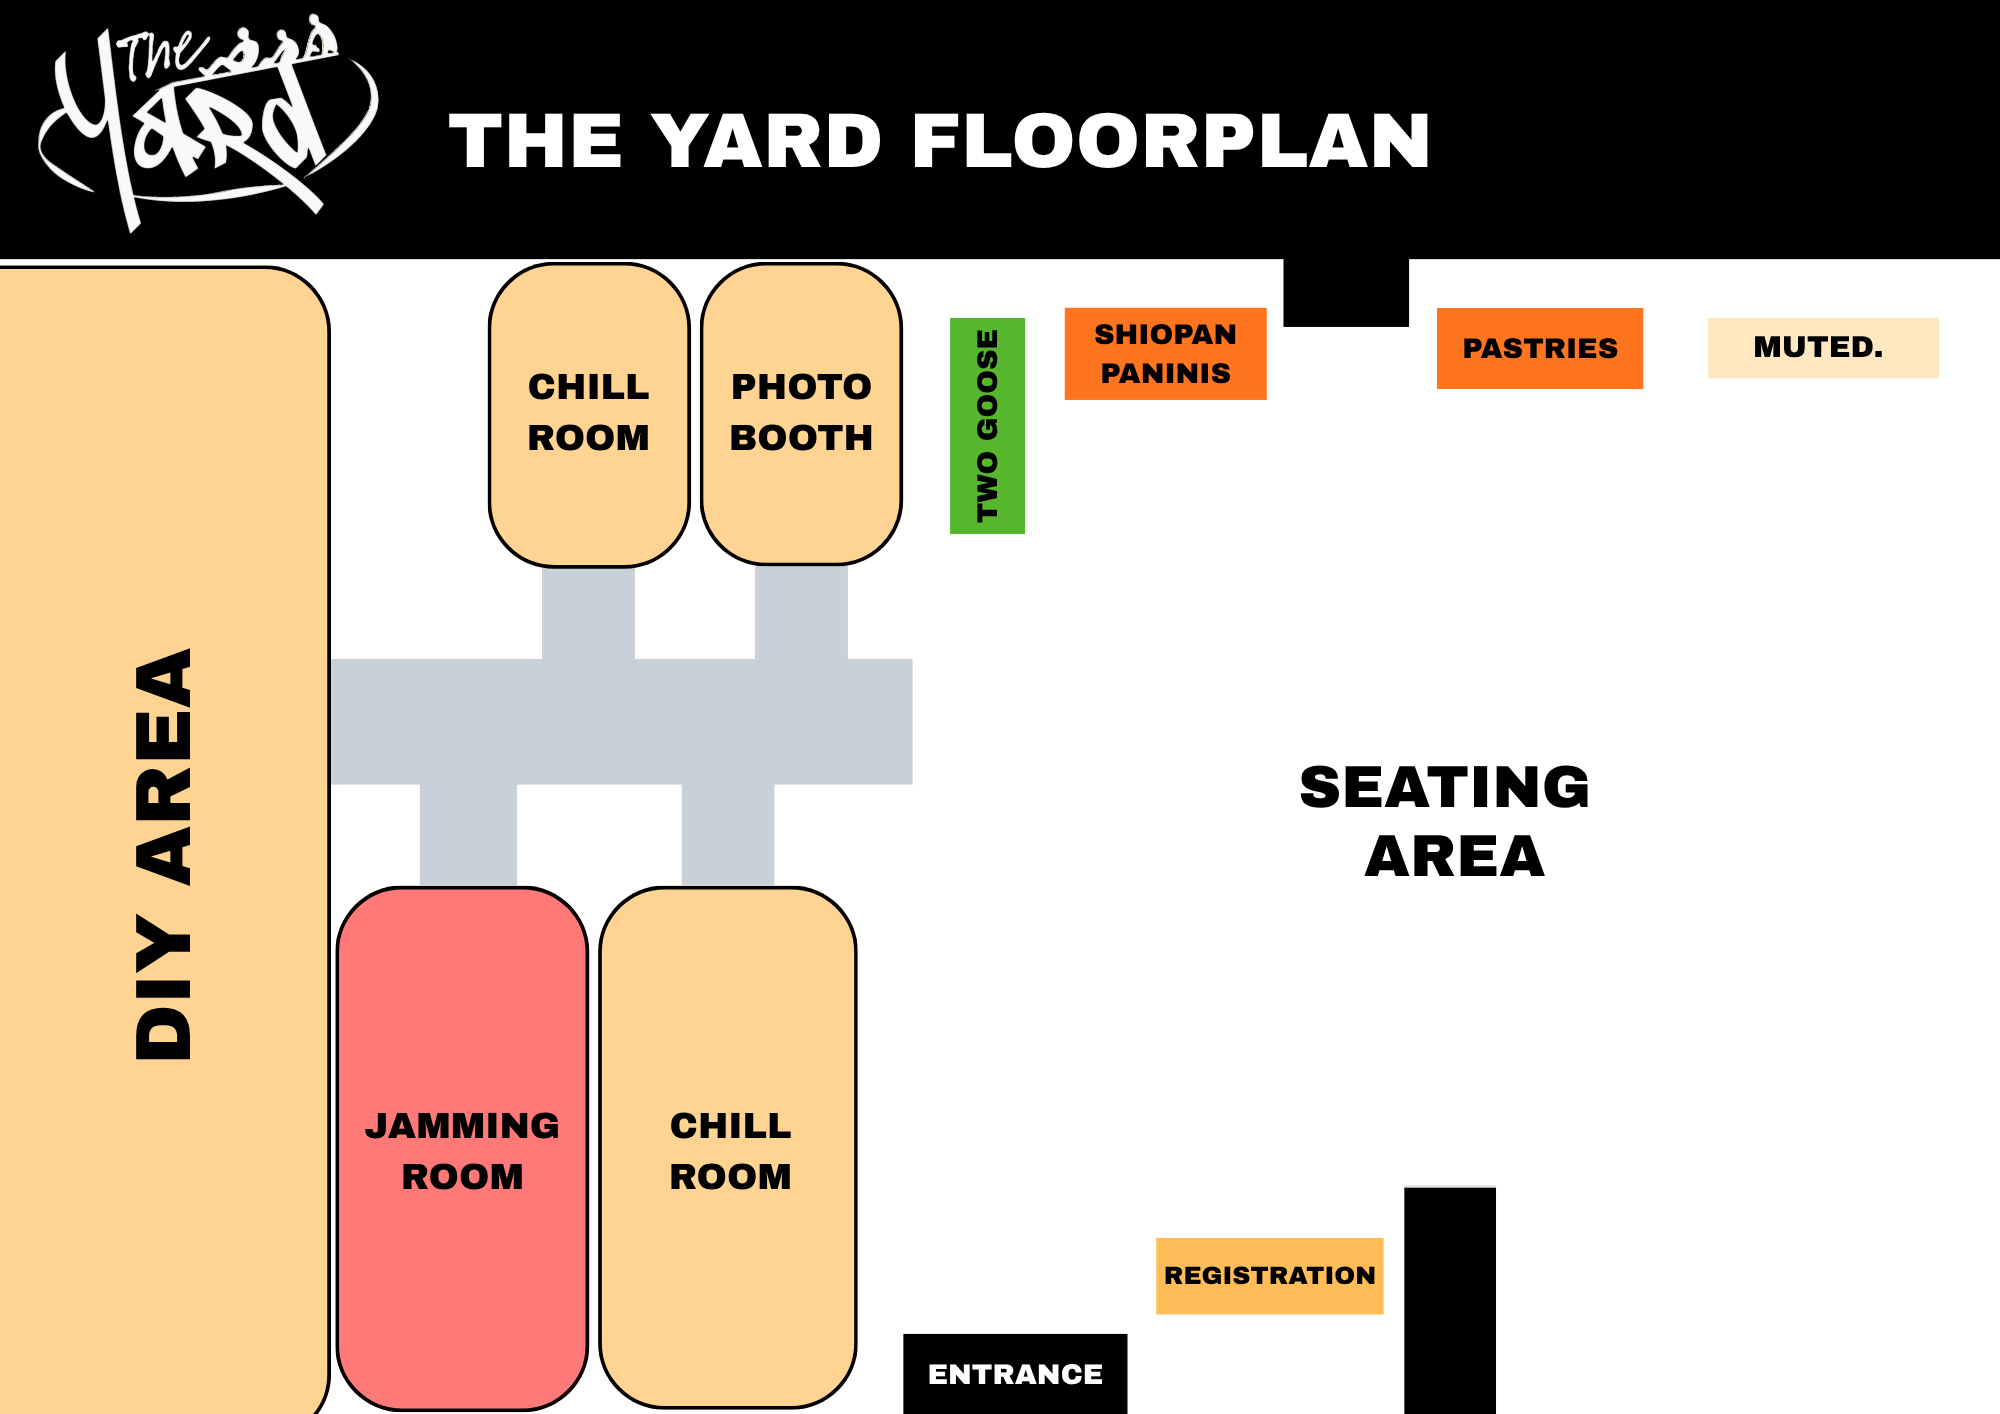
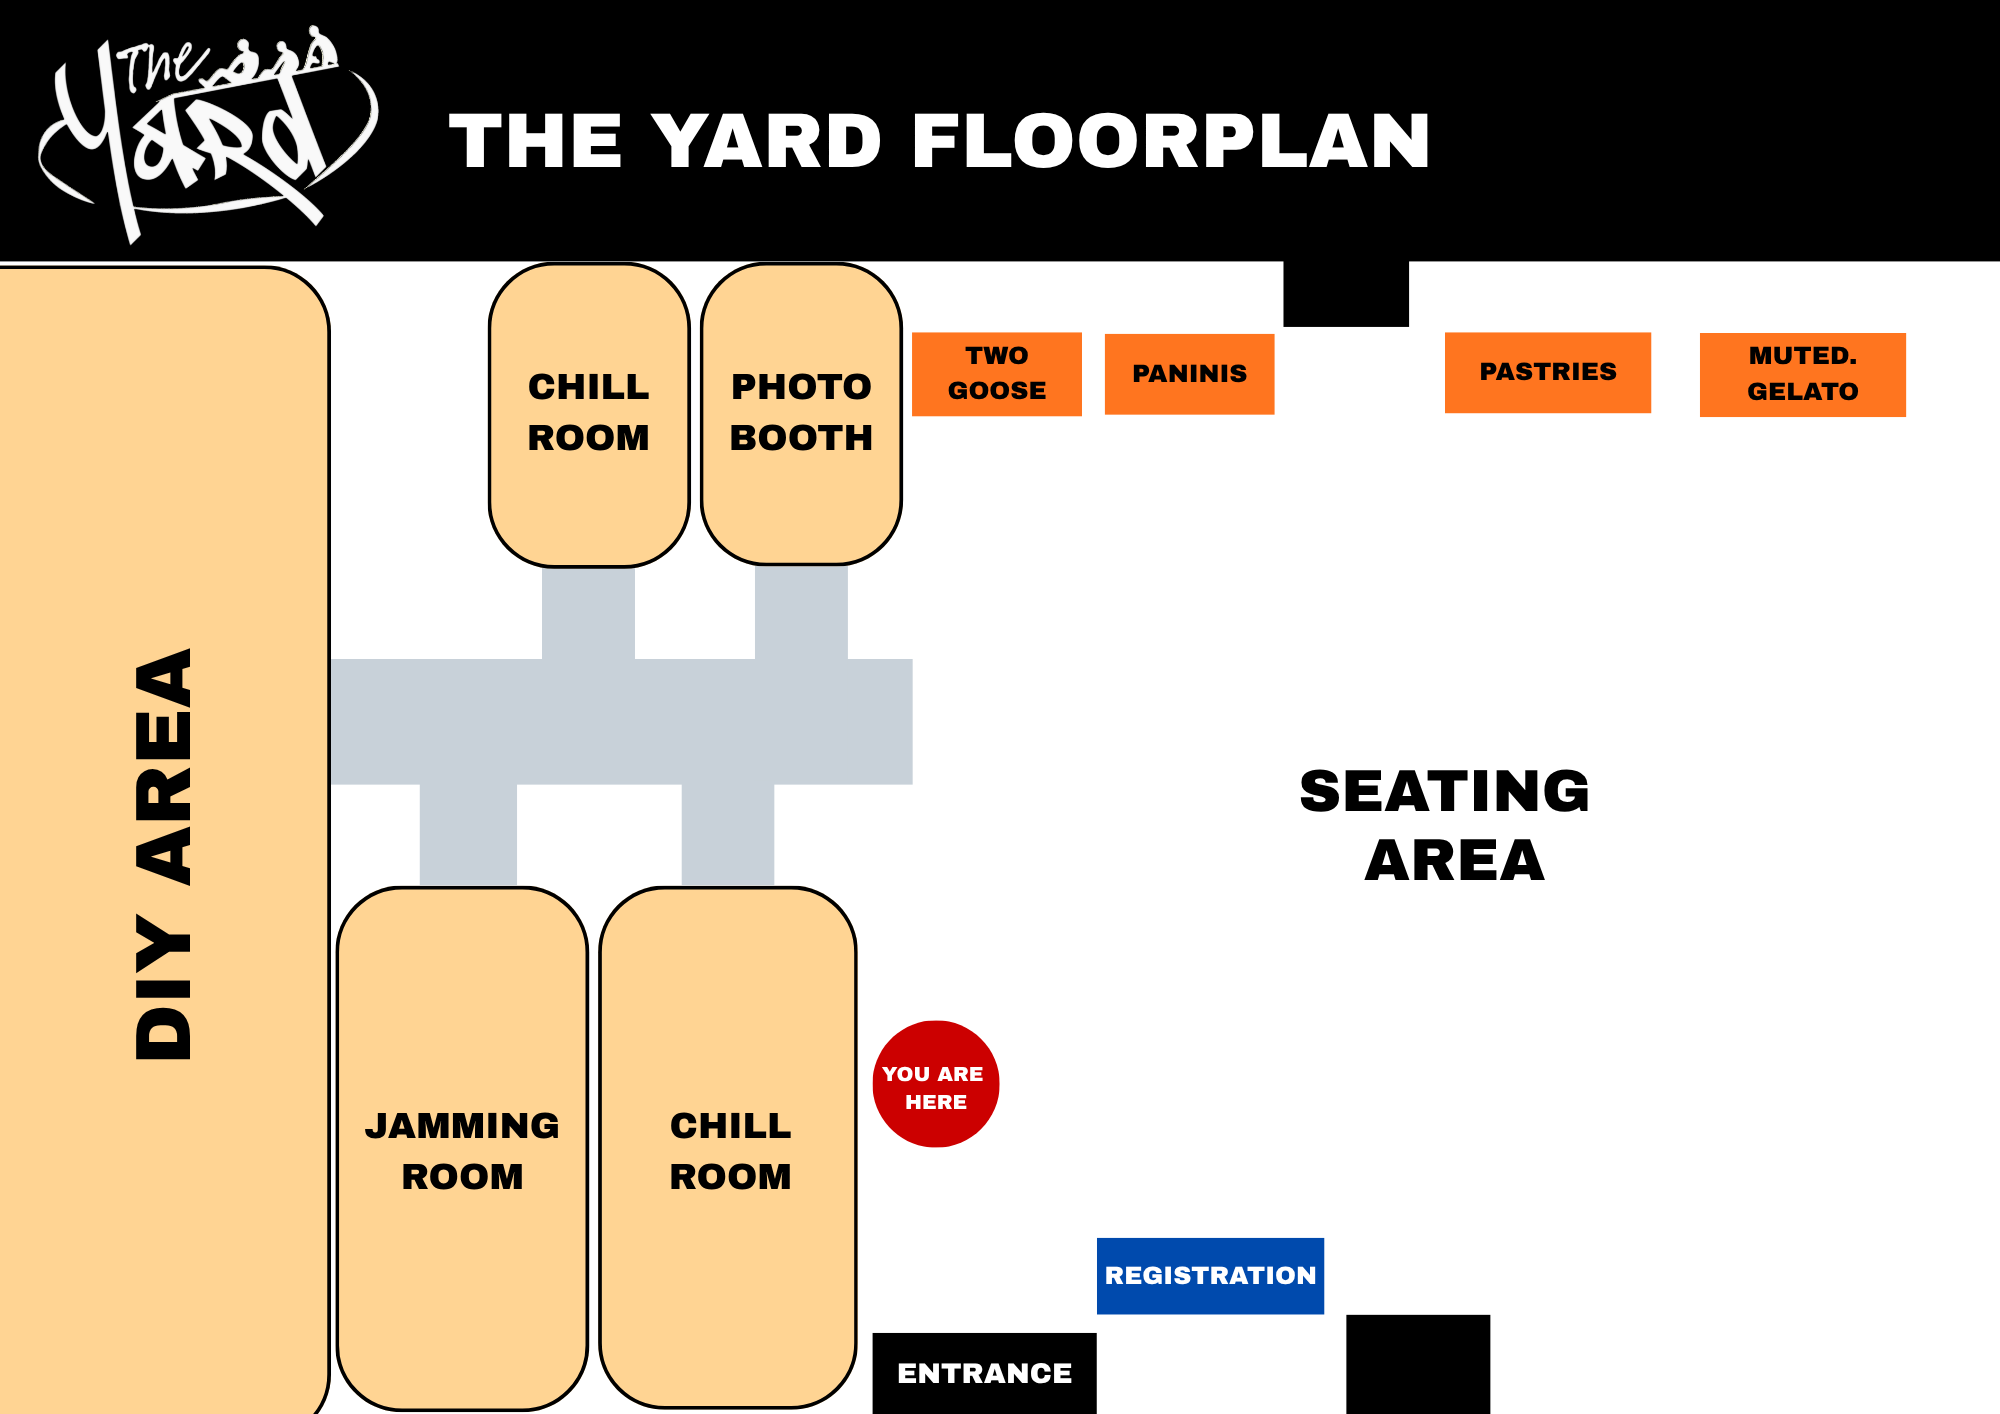
feat: the new floorplan, pinch only, and the way to the escape room
The plan is the organiser's new one, same shape as the old so nothing about
the frame or the clamping changes, and the alt text describes what is
actually on it now.

Double-tap to zoom is gone. It did what pinch already does, and on a phone it
goes off by accident: two quick taps while you are working out where you are,
and the plan jumps to 2.6x somewhere you were not looking. Pinch, drag and
the trackpad wheel stay. The lastTap and moved bookkeeping that only
double-tap read went with it rather than sitting there being set by nothing.

And the escape room has directions, which it has never had anywhere: out of
the entrance, first door on your right, the sign on it says Escape Room. The
ticket carries a Where is it? button to the plan, since the ticket is what
somebody is looking at five minutes before their game.

539 tests pass; 33 screen states render.

diff --git a/templates/index.html b/templates/index.html
@@ -1666,6 +1666,7 @@ VIEWS.ticket = function(){
         ? `<button class="btn btn-bone" id="allowmsgs">Allow messages</button>`
         : `<div class="phone-b">Open our bot in Telegram and tap Start.</div>`}
     </div>` : ''}
+    <button class="btn btn-quiet" data-go="floorplan">Where is it? ${ARROW}</button>
     ${peopleList({
       head:'Your group', count:b.group.length + ' of ' + b.max_party, rows,
       add:b.can_add ? addRow('friendbox', '<button class="prow-add-btn" id="friendlive">Add</button>') : ''
@@ -2060,11 +2061,12 @@ VIEWS.floorplan = function(){
     <header><h1 class="display big">Floorplan</h1></header>
     ${src ? `
     <div class="plan" id="plan">
-      <img id="planimg" src="${esc(src)}" alt="The Yard floorplan: the DIY area, two chill rooms, the photo booth, the jamming room, the food stalls, the seating area, the front desk and the entrance" draggable="false">
+      <img id="planimg" src="${esc(src)}" alt="The Yard floorplan: the DIY area down the left, the jamming room and two chill rooms, the photo booth, the Two Goose, Paninis, Pastries and MUTED. Gelato stalls along the top, the seating area, Registration and the entrance" draggable="false">
     </div>
-    <p class="label plan-hint" id="planhint">Pinch or double-tap to zoom</p>
+    <p class="label plan-hint" id="planhint">Pinch to zoom</p>
     <ul class="help-list plan-notes">
       <li>${esc(capFirst(e.meeting_point || 'the front desk'))} is marked Registration on the plan</li>
+      <li>For The Last Guest: go out of the entrance and take the first door on your right. The sign on it says Escape Room</li>
     </ul>` : `<p class="help-p">The floorplan isn’t up yet. Ask at ${esc(e.meeting_point || 'the front desk')}.</p>`}
   </div>`;
 };
@@ -2116,14 +2118,13 @@ function wirePlan(){
   if (img.complete) fit(); else img.addEventListener('load', fit, { once:true });
   planClamp(frame); planApply(img);
   const points = new Map();
-  let pinchFrom = 0, scaleFrom = 1, lastTap = 0, moved = false;
+  let pinchFrom = 0, scaleFrom = 1;
   const touches = () => [...points.values()];
   const gap = (a, b) => Math.hypot(a.x - b.x, a.y - b.y);
 
   frame.addEventListener('pointerdown', (ev) => {
     frame.setPointerCapture(ev.pointerId);
     points.set(ev.pointerId, { x:ev.clientX, y:ev.clientY });
-    moved = false;
     if (points.size === 2){
       const [a, b] = touches();
       pinchFrom = gap(a, b); scaleFrom = PLAN.scale;
@@ -2139,29 +2140,20 @@ function wirePlan(){
       const [a, b] = touches();
       const mid = { x:(a.x + b.x) / 2, y:(a.y + b.y) / 2 };
       planZoomAt(frame, scaleFrom * (gap(a, b) / pinchFrom), mid.x, mid.y);
-      moved = true;
     } else if (points.size === 1 && PLAN.scale > 1){
       PLAN.x += now.x - was.x; PLAN.y += now.y - was.y;
       planClamp(frame);
-      moved = true;
     }
     planApply(img);
   });
 
+  // Pinch only (23 Sep). A double-tap on a map you are already pinching is a
+  // second way to do the same thing, and on a phone it fires by accident:
+  // two quick taps while you are working out where you are, and the plan
+  // jumps to 2.6x somewhere you were not looking.
   const release = (ev) => {
     points.delete(ev.pointerId);
     if (points.size < 2) pinchFrom = 0;
-    // A double-tap zooms in where you tapped, or back out if you are in.
-    if (ev.type === 'pointerup' && !moved){
-      const now = Date.now();
-      if (now - lastTap < 320){
-        planZoomAt(frame, PLAN.scale > 1.2 ? 1 : 2.6, ev.clientX, ev.clientY);
-        planApply(img);
-        lastTap = 0;
-      } else {
-        lastTap = now;
-      }
-    }
   };
   frame.addEventListener('pointerup', release);
   frame.addEventListener('pointercancel', release);
